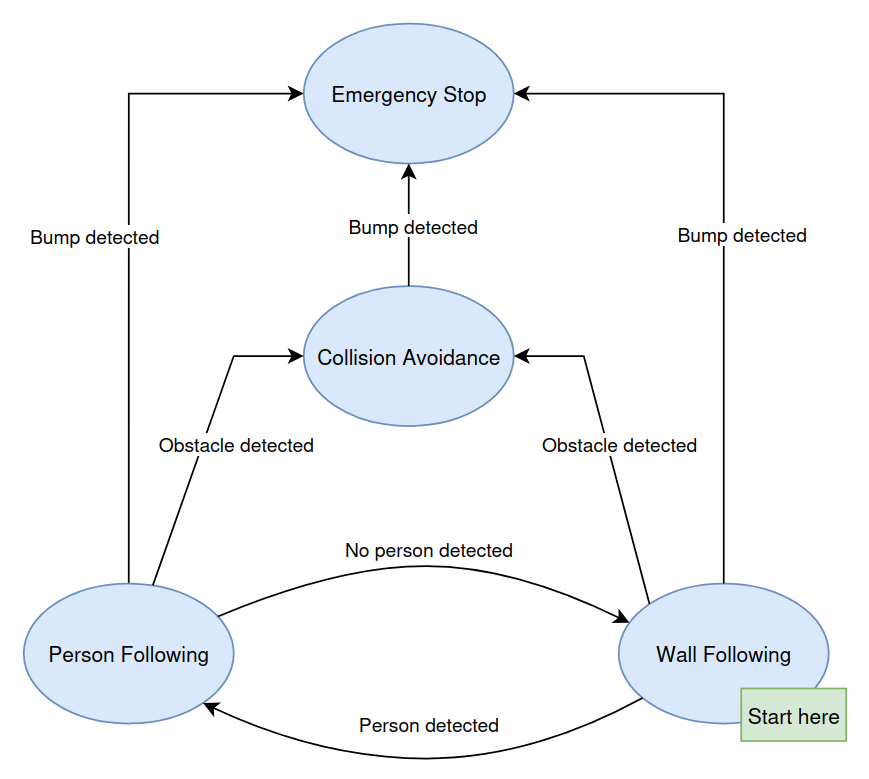
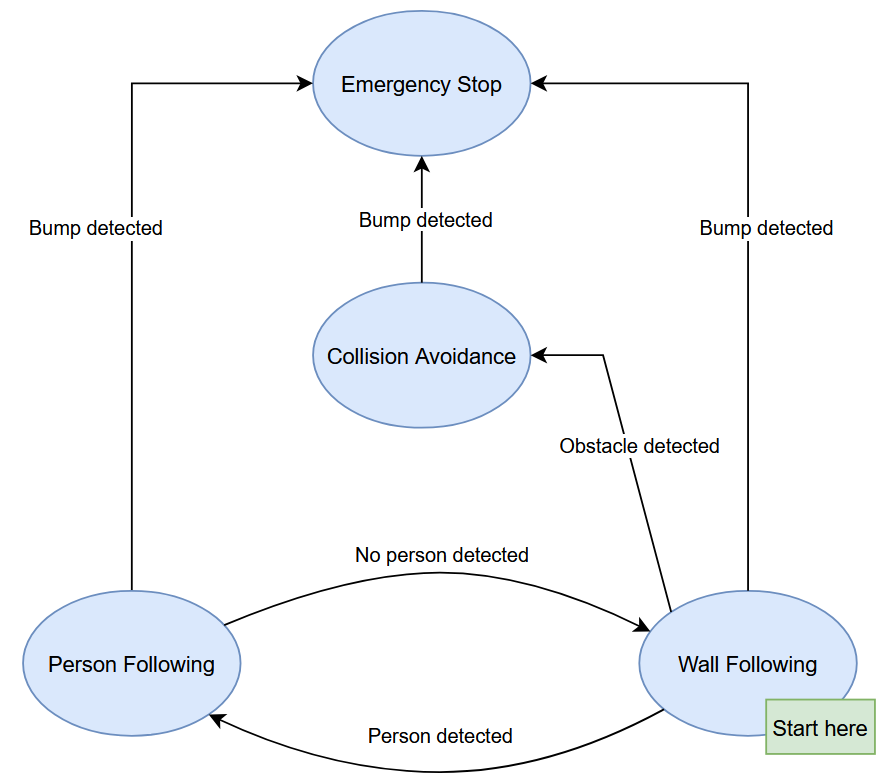
writeup done in readme (i think)

diff --git a/README.md b/README.md
@@ -4,41 +4,6 @@
 
 In this project, we were tasked to create a finite state machine with various behaviors for our Neato robot, using ROS and Python.
 
-## Behaviors:
-
-- [Emergency Stop](#emergency-stop)
-- [Collision Avoidance](#collision-avoidance)
-- [Wall Following](#wall-following)
-- [Person Following](#person-following)
-
-### Emergency Stop
-
-meow meow meow meow meow
-
-### Collision Avoidance
-
-We used the Neato's LiDAR to detect if anything is too close to it (the threshold we chose was 0.2 meters). If there is anything too close in the Neato's forward-facing 90° "field of view", it will turn left until it no longer detects the obstacle.
-
-### Wall Following
-
-Our wall following algorithm:
-
-![Diagram of Neato facing an angled wall, with lines showing LiDAR scan.](/media/neato_at_wall.png)
-
-- We split the Neato's forward-facing field of view into 2 halves: the right and the left. Each of these is received as a list of numbers, each representing a distance in meters.
-- For both the right and the left, we take reciprocals of each distance and then sum all the reciprocals. This gives us a number, "closeness", that is smaller if the overall distances on that side are farther away, and larger if the distances on that side are closer.
-- We assume that the wall is on the side that has higher closeness.
-- We compare that side's closeness value to an "ideal closeness" value, which is a constant, to get the error.
-- We set angular velocity scaling on that error.
-
-Result:
-
-![GIF of simulated Neato approaching wall and turning to be parallel with it, then curving away from it.](/media/wallfollowingsim.gif)
-
-### Person Following
-
-jklsdfjlskjlsdgjlksdf
-
 ## Finite State Machine
 
 ![Diagram showing the FSM's states and the triggers for transitioning between them.](/media/fsm_diagram.png)
@@ -49,3 +14,121 @@ We decided to make wall following the default behavior for the Neato. Certain co
 - If the front-facing portion of the LiDAR scan detects anything too close, collision avoidance will be triggered.
 - The Neato will start in the wall following state. If it detects a potential "person" (see [Person Following](#person-following) for more details), person following will be triggered.
 - If, during person following, the Neato stops detecting a person, it will go back to wall following.
+
+## Behaviors
+
+- [Emergency Stop](#emergency-stop)
+- [Collision Avoidance](#collision-avoidance)
+- [Wall Following](#wall-following)
+- [Person Following](#person-following)
+
+### Emergency Stop
+
+The primary method to avoid obstacles is “Collision Avoidance” using the Neato’s LiDAR. However, if something is missed and the Neato bumps something, its bump sensor will immediately detect it, causing it to stop doing any other activity.
+
+The simulated Neato doing an emergency stop can be seen at the end of the person following video.
+
+### Collision Avoidance
+
+We used the Neato's LiDAR to detect if anything is too close to it (the threshold we chose was 0.2 meters). If there is anything too close in the Neato's forward-facing 90° "field of view", it will turn left until it no longer detects the obstacle.
+
+### Wall Following
+
+Our wall following algorithm runs each frame and is as follows:
+
+- We split the forward-facing 180° of the Neato's field of view into 2 halves: the right and the left. Each of these is received as a list of numbers, each representing a distance in meters.
+
+![Diagram of Neato facing an angled wall, with lines showing LiDAR scan.](/media/neato_at_wall.png)
+
+- For both the right and the left, we take reciprocals of each distance and then sum them all. This gives us a number, "closeness", that is smaller if the overall distances on that side are farther away, and larger if the distances on that side are closer.
+
+$$\mathrm{closeness} = \sum^d \frac{1}{d} $$
+
+- We assume that the wall is on the side that has higher closeness.
+- We compare that side's closeness value to an "ideal closeness" value, which is a constant, to get the error.
+- We store the error from the previous frame and use it and the current error to determine the current rate of change of error with respect to time.
+- We scale both the error and its rate of change by constants and add the results together to get the angular velocity.
+- We set the linear velocity to half of the Neato’s linear velocity and clamp the angular velocity to not exceed half of its maximum angular velocity. This way the Neato’s maximum wheel velocity cannot be exceeded.
+
+Result:
+
+The Neato smoothly moves around the world, moving towards the closest wall that’s in front of it while keeping a safe distance from it. It can move around 90° corners without needing to go into collision avoidance mode. It doesn’t oscillate closer and further from the wall as it would if the rate of change of error didn’t affect angular velocity.
+
+[Video of simulated Neato during wall following](https://olincollege-my.sharepoint.com/:v:/g/personal/pwang_olin_edu/IQCw82-khCmUT5X8Nl9OMrTEAbDxxazYetnbQDZEsN6KrrI?e=zle0Wg&nav=eyJyZWZlcnJhbEluZm8iOnsicmVmZXJyYWxBcHAiOiJTdHJlYW1XZWJBcHAiLCJyZWZlcnJhbFZpZXciOiJTaGFyZURpYWxvZy1MaW5rIiwicmVmZXJyYWxBcHBQbGF0Zm9ybSI6IldlYiIsInJlZmVycmFsTW9kZSI6InZpZXcifX0%3D)
+
+### Person Following
+
+Our person following algorithm runs each frame and is as follows:
+
+- We go through all 360° of the Neato’s LiDAR scan, and for every pair of adjacent points, we compare the points’ distances from the Neato. If they are far apart (the difference is over one meter), we assume it might be a person and add the closer point and its angle to a list.
+
+![Diagram of Neato facing a wall with an object in front of it.](/media/neato_find_person.png)
+
+- If this list has at least 1 point, the person-following state is triggered.
+- We select the closest “potential person” point as the point to follow. From the scan data, we have its angle (with respect to the Neato’s heading) and its distance from the Neato.
+- Our goal is to move in a smooth arc to reach the person so the Neato doesn’t waste time turning towards a target that could move.
+- We use the angle and distance to calculate the length of the arc from the Neato to the point using this formula:
+
+$$ \mathrm{Arc\ length} = \frac{d\theta}{\sin(\frac{\theta}{2})} $$
+
+- where d is the distance in meters and is the angle in radians. We convert the angle, which is stored as indices in a list, from degrees to radians.
+
+![Diagram of calculation of arc from Neato to object.](/media/neato_arc.png)
+
+- After this arc length is calculated, we can calculate the amount of time the Neato will take to travel along that arc. Using this, we determine an angular velocity to use.
+- During person following, LiDAR collision avoidance is disabled, to allow the Neato to run into the object it’s following; this will trigger the bump sensor causing the Neato to stop.
+
+Result:
+
+The Neato smoothly drives towards the nearest freestanding object until it hits it and stops. If the object moves before the Neato reaches it, the Neato will continue to follow it as if it was always there. If the object moves far enough away to no longer be the closest freestanding object, the Neato will change its target.
+
+[Video of simulated Neato during person following](https://olincollege-my.sharepoint.com/:v:/g/personal/pwang_olin_edu/IQABtrCjnAMERaUsXZ-jbKi3AWRO2GUK3Fda_L2WpvCxLsM?e=bqtFKd&nav=eyJyZWZlcnJhbEluZm8iOnsicmVmZXJyYWxBcHAiOiJTdHJlYW1XZWJBcHAiLCJyZWZlcnJhbFZpZXciOiJTaGFyZURpYWxvZy1MaW5rIiwicmVmZXJyYWxBcHBQbGF0Zm9ybSI6IldlYiIsInJlZmVycmFsTW9kZSI6InZpZXcifX0%3D)
+
+## Contributions
+
+The majority of this project was done by our whole team together, with smaller parts being done individually or in pairs.
+
+Together:
+
+- Implementation of drive in square (which didn’t end up being included in the FSM), collision avoidance, and emergency stop
+- The FSM structure
+- Algorithm development for person following and wall following
+- Testing, debugging, and documentation
+
+Austin:
+
+- Implementation and improvement on wall following
+
+Pepper & Pippin:
+
+- Implementation of person following
+
+## Interacting with the project
+
+Steps for running the code for this project:
+
+- Set up SSH and install ROS and the Neato packages by following steps 2-4 on [this page](https://comprobo26.github.io/How%20to/setup_your_environment).
+- Clone the project repository by running the following command while in the `ros2_ws/src` directory:
+
+`git clone git@github.com:olincollege/CompRobo-FSM-Yeeto-your-Neato.git`
+
+- Do the following steps in the `ros2_ws` directory:
+- Build and source the project by running the following command:
+
+`colcon build --symlink-install && source ~/ros2_ws/install/setup.bash`
+
+- Finally, run the project by running the following command:
+
+`ros2 run ros_behaviors_fsm finite_state_controller`
+
+- It can be run either on a physical Neato or in simulation:
+  - [Physical Neato instructions](https://comprobo26.github.io/How%20to/use_the_neatos)
+  - [Simulation instructions](https://comprobo26.github.io/How%20to/use_the_simulator)
+
+## Limitations
+
+- If there is a large jump in LiDAR distance data the Neato will go to it even if it isn’t a person or a freestanding object.
+- While the Neato is “Person Following” “Collision Avoidance” isn't active, therefore it can hit stuff in its path and will have to “Emergency Stop”.
+- Once the Neato’s bump sensor is triggered it stops forever, there is no way of getting out of “Emergency Stop”.
+- The “Collision Avoidance” algorithm always turns to the left, there is no way for it to turn to the right even if that would make more sense in the context of “Person Following” or “Wall Following”.
+- Once the Neato has found the “person” it will bump into it triggering “Emergency Stop” and ending the program completely.
